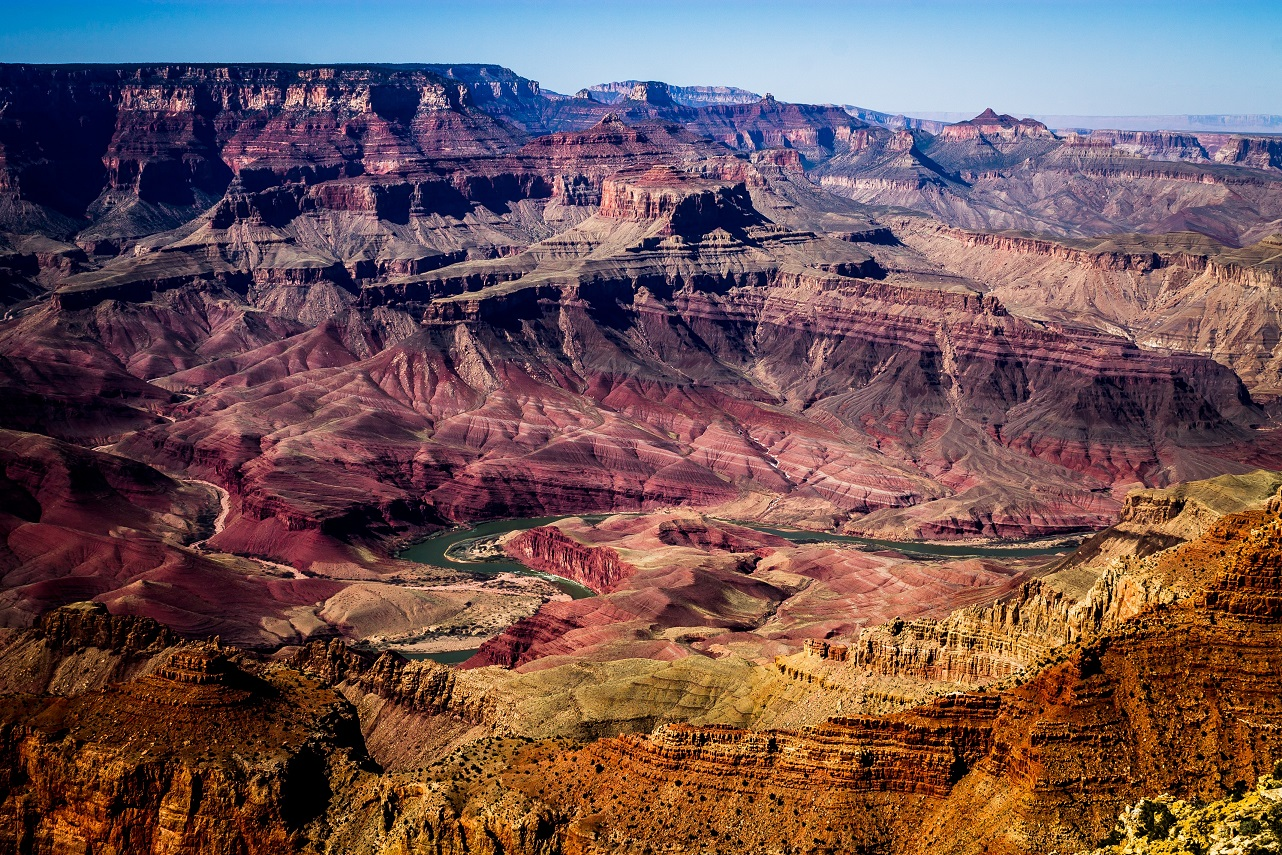
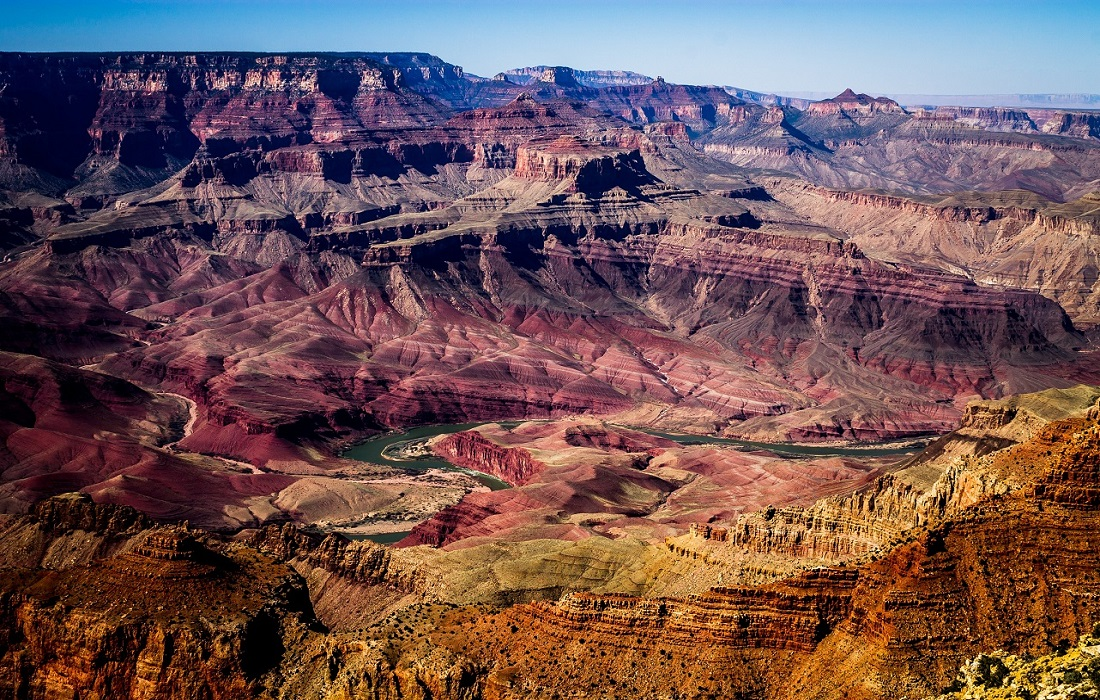
feat: add css styling (Thur., May 12, 2022 13:46:15)

diff --git a/cssMemSlider/style.css b/cssMemSlider/style.css
@@ -1,0 +1,66 @@
+* {
+  box-sizing: border-box;
+}
+
+html {
+  font-size: 10px;
+}
+
+body {
+  margin: 30px 0; 
+  background-color: rgb(48, 46, 46);
+}
+
+.container {
+  max-width: 1140px;
+  margin: auto;
+  padding: 0 20px;
+}
+
+.slider-wrapper {
+  display: flex;
+  justify-content: center; 
+}
+
+.slide {
+  width: 1100px;
+  height: 700px;
+  border-radius: 10px; 
+}
+
+.slider-details {
+  display: flex;
+  justify-content: space-between;
+  align-items: center;
+}
+
+.slide-description {
+  font-size: 2.5rem;
+  color: #ffffff;
+}
+
+.dot {
+  display: inline-block;
+  width: 20px;
+  height: 20px;
+  background-color: rgb(75, 75, 155);
+  border: 2px solid rgb(75, 75, 155);
+  cursor: pointer;
+  border-radius: 50%;
+  margin-right: 15px;
+}
+
+.active {
+  background-color: transparent;
+  cursor: auto;
+}
+
+.dot:hover.active:hover {
+  background-color: transparent;
+  border: 2px solid rgb(75, 75, 155);
+}
+
+.dot:hover {
+  background-color: #ffffff;
+  border: 2px solid #ffffff;
+}

diff --git a/cssMemSlider/index.html b/cssMemSlider/index.html
@@ -10,7 +10,11 @@
   <body>
     <div class="container">
       <div class="slider-wrapper">
-        <img src="./assets/quinn-nietfeld.jpg" alt="Colorful Grand Canyon" />
+        <img
+          class="slide"
+          src="./assets/jad-limcaco.jpg"
+          alt="Colorful Grand Canyon"
+        />
       </div>
       <div class="slider-details">
         <p class="slide-description" id="slide-description">
